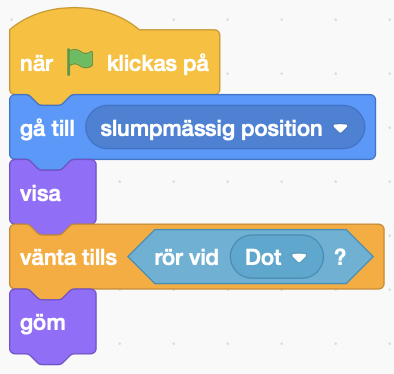
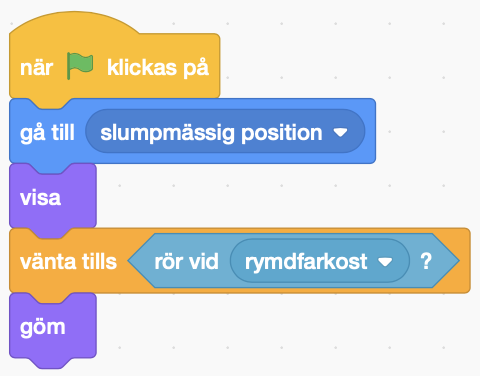
Add more steps

Changed region(s): [[0.0, 0.0, 1.0, 1.0]]

diff --git a/coda_2-uppgift/README.md b/coda_2-uppgift/README.md
@@ -1,6 +1,6 @@
 # CODA 2 – Städa rymdskrot
 
-Vi behöver städa rymden från allt rymdskrot.
+Vi måste rädda satelliten Mats och för att göra det så behöver vi städa rymden från rymdskrot.
 
 ![](./0_1.gif)
 
@@ -109,13 +109,50 @@ När det ligger rätt så lägger sig rymdskrotet på en ny plats varje gång vi
 
 ![](./8_3.gif)
 
-## 9 – Lägg till mer rymdskrot
+## 9 – Rör på rymdskrotet
 
 ![](./9_1.png)
 
-Nu har vi skapat ett rymdskrot i form av en kvadrat som dyker upp på en ny plats varje gång vi trycker på den gröna flaggan så är det dags att lägga till fler geometriska figurer.
+Nu har vi skapat ett rymdskrot i form av en kvadrat som dyker upp på en ny plats varje gång vi trycker på den gröna flaggan. Men rymdskrotet står ju helt still! Och det är ju helt fel. Det ska ju flyga runt.
 
-På samma sätt som vi ritade och kodade kvadraten – skapa vi nu två nya figurer:
+Vi kan få det att flyga runt på samma sätt som vår farkost. Vi lägger till ett nytt block **När grön flagga klickas på** och **för alltid** så ska vi **gå 1 steg framåt**.
+
+Men om vi testar nu så fastnar vårt rymdskrot i kanterna för vi kan inte styra rymdskrotet. Det finns ett block som kan hjälpa oss. Det heter **om vid kanten, studsa**. 
+
+![](./9_2.png)
+
+Vi vill att vårt rymdskrot skall studsa vid kanten efter att det ha **gått 1 steg framåt**. Vart tror du att det här blocket ska ligga? 
+
+## 10 – Håll räkningen på rymdskrotet
+
+![](./10_1.png)
+
+Vi skulle vilja hålla reda på hur många delar rymdskrot vi har plockat upp. Det skulle vi kunna använda en *variabel* till. Variabler är väldigt användbara när vi vill räkna saker.
+
+Använd knappen **skapa en variabel** och ge den namnet ”antal”.
+
+![](./10_2.png)
+
+Nu kan vi använda blocket **ändra antal med 1**. Vi vill ändra variabeln **antal** med 1 *efter* att vi har rört vid rymdfarkosten.
+
+![](./10_3.png)
+
+## 11 – Visa rymdskrotet igen
+
+![Nu räknar vi hur mycket rymdskrot vi plockar upp](./11_1.png)
+
+Det är lite tråkigt att rymdskrotet försvinner helt när vi plockar upp det. Det finns ju trots allt mer rymdskrot i rymden. Vi kan använda blocket **för alltid** och lägga det *runt* våra andra block. Efter att vi har gömt vårt rymdskrot så vill vi hoppa upp till **gå till slumpmässig position**.
+
+
+## 12 – Lägg till mer rymdskrot
+
+![Nu kan vi plocka upp rymdskrotet flera gånger](./12_1.png)
+
+Nu har vi skapat ett rymdskrot i form av en kvadrat som dyker upp på en ny plats varje gång vi fångar den. Och vi håller räkningen på hur många vi har plockat upp. 
+
+Rymdskrot kan ha olika former och olika storlekar.
+
+På samma sätt som vi ritade och programmerade vår kvadrat – skapa vi nu två nya figurer:
 
 - En rektangel
 - En cirkel
